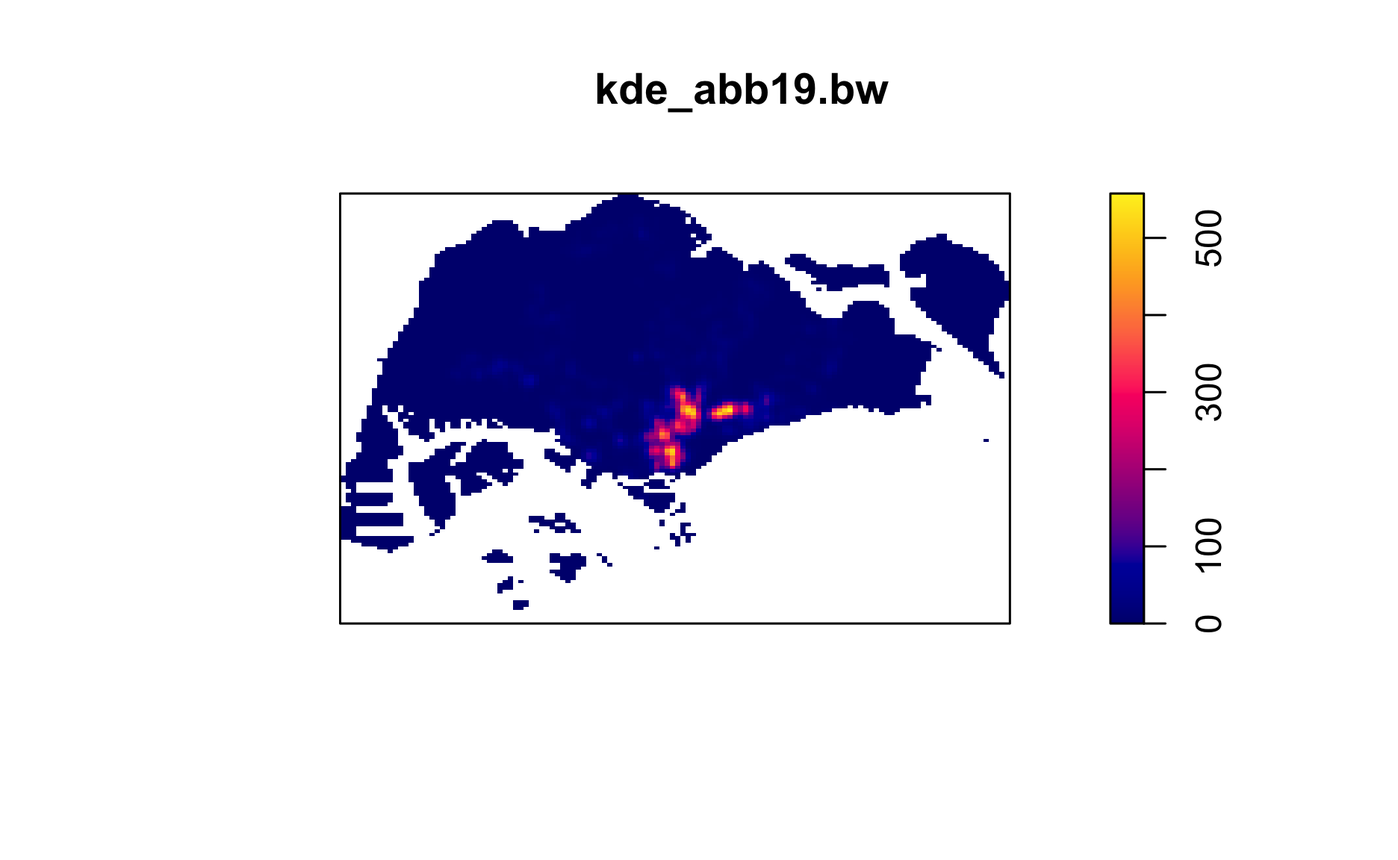
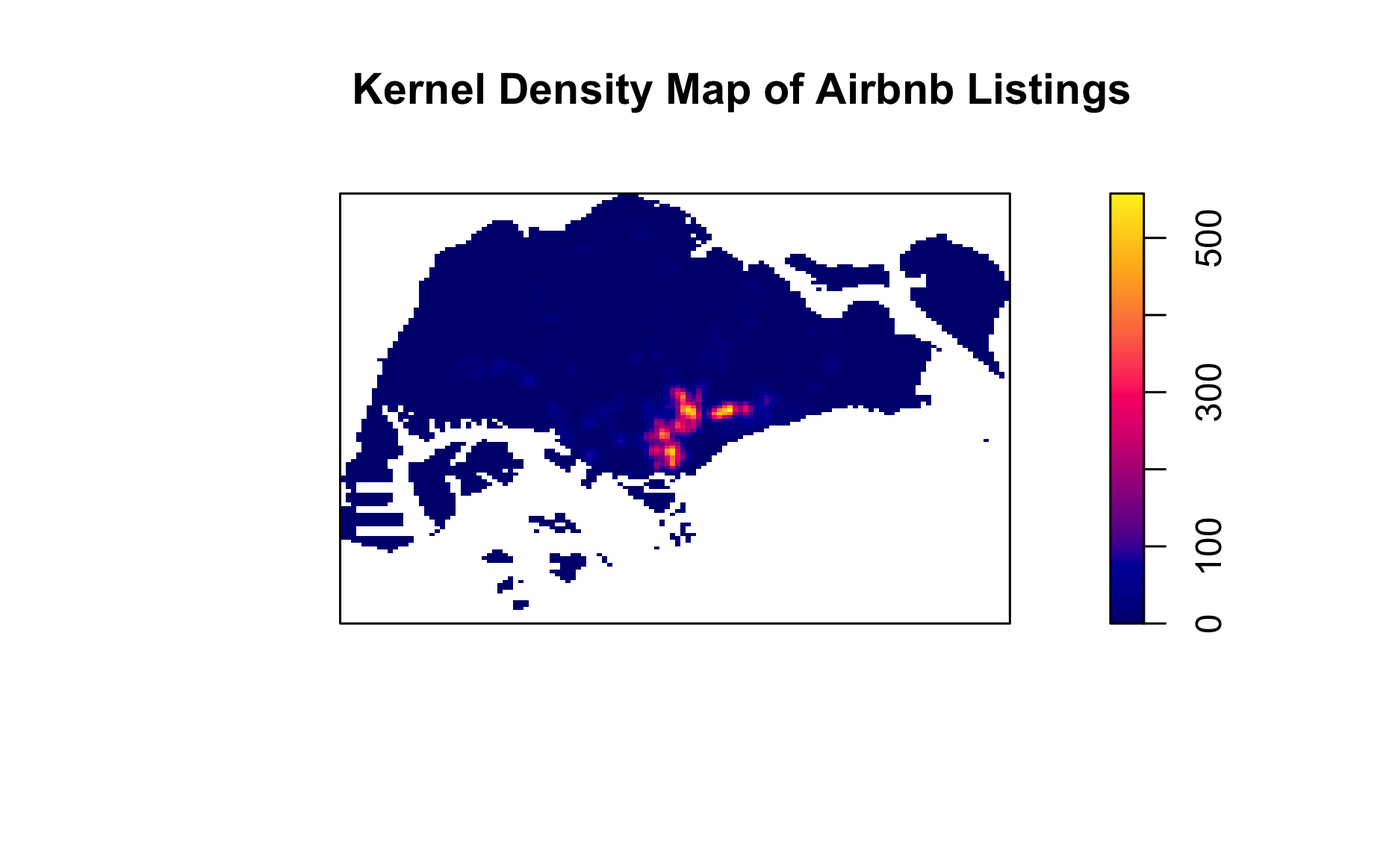
Initial commit

Changed region(s): [[0.2479, 0.0625, 0.8056, 0.125]]

diff --git a/_posts/2021-09-24-take-home-exercise-2/take-home-exercise-2.html b/_posts/2021-09-24-take-home-exercise-2/take-home-exercise-2.html
@@ -92,8 +92,8 @@ code span.wa { color: #5e5e5e; font-style: italic; } /* Warning */
 
 
   <!--  https://schema.org/Article -->
-  <meta property="article:published" itemprop="datePublished" content="2021-09-24"/>
-  <meta property="article:created" itemprop="dateCreated" content="2021-09-24"/>
+  <meta property="article:published" itemprop="datePublished" content="2021-10-01"/>
+  <meta property="article:created" itemprop="dateCreated" content="2021-10-01"/>
   <meta name="article:author" content="Xu Pengtai"/>
 
   <!--  https://developers.facebook.com/docs/sharing/webmasters#markup -->
@@ -111,12 +111,12 @@ code span.wa { color: #5e5e5e; font-style: italic; } /* Warning */
   <!--radix_placeholder_rmarkdown_metadata-->
 
   <script type="text/json" id="radix-rmarkdown-metadata">
-  {"type":"list","attributes":{"names":{"type":"character","attributes":{},"value":["title","description","author","date","output"]}},"value":[{"type":"character","attributes":{},"value":["take-home-exercise-2"]},{"type":"character","attributes":{},"value":["Analysing airbnb listings in Singapore and the impact of covid-19 on them.\n"]},{"type":"list","attributes":{},"value":[{"type":"list","attributes":{"names":{"type":"character","attributes":{},"value":["name","url"]}},"value":[{"type":"character","attributes":{},"value":["Xu Pengtai"]},{"type":"character","attributes":{},"value":["https://www.linkedin.com/in/xupengtai/"]}]}]},{"type":"character","attributes":{},"value":["09-24-2021"]},{"type":"list","attributes":{"names":{"type":"character","attributes":{},"value":["distill::distill_article"]}},"value":[{"type":"list","attributes":{"names":{"type":"character","attributes":{},"value":["self_contained"]}},"value":[{"type":"logical","attributes":{},"value":[false]}]}]}]}
+  {"type":"list","attributes":{"names":{"type":"character","attributes":{},"value":["title","description","author","date","output"]}},"value":[{"type":"character","attributes":{},"value":["take-home-exercise-2"]},{"type":"character","attributes":{},"value":["Analysing airbnb listings in Singapore and the impact of covid-19 on them.\n"]},{"type":"list","attributes":{},"value":[{"type":"list","attributes":{"names":{"type":"character","attributes":{},"value":["name","url"]}},"value":[{"type":"character","attributes":{},"value":["Xu Pengtai"]},{"type":"character","attributes":{},"value":["https://www.linkedin.com/in/xupengtai/"]}]}]},{"type":"character","attributes":{},"value":["10-01-2021"]},{"type":"list","attributes":{"names":{"type":"character","attributes":{},"value":["distill::distill_article"]}},"value":[{"type":"list","attributes":{"names":{"type":"character","attributes":{},"value":["self_contained"]}},"value":[{"type":"logical","attributes":{},"value":[false]}]}]}]}
   </script>
   <!--/radix_placeholder_rmarkdown_metadata-->
   
   <script type="text/json" id="radix-resource-manifest">
-  {"type":"character","attributes":{},"value":["data/airbnb/listings_2019.csv","data/airbnb/listings_2021.csv","data/OneMap_Data/hotels.csv","data/OneMap_Data/mrt/MRTLRTStnPtt.CPG","data/OneMap_Data/mrt/MRTLRTStnPtt.dbf","data/OneMap_Data/mrt/MRTLRTStnPtt.prj","data/OneMap_Data/mrt/MRTLRTStnPtt.sbn","data/OneMap_Data/mrt/MRTLRTStnPtt.sbx","data/OneMap_Data/mrt/MRTLRTStnPtt.shp","data/OneMap_Data/mrt/MRTLRTStnPtt.shp.xml","data/OneMap_Data/mrt/MRTLRTStnPtt.shx","data/OneMap_Data/tourism.csv","data/subzone_sg/MP14_SUBZONE_WEB_PL.dbf","data/subzone_sg/MP14_SUBZONE_WEB_PL.prj","data/subzone_sg/MP14_SUBZONE_WEB_PL.sbn","data/subzone_sg/MP14_SUBZONE_WEB_PL.sbx","data/subzone_sg/MP14_SUBZONE_WEB_PL.shp","data/subzone_sg/MP14_SUBZONE_WEB_PL.shp.xml","data/subzone_sg/MP14_SUBZONE_WEB_PL.shx","data/subzone_sg/Punggol_St.cpg","data/subzone_sg/Punggol_St.dbf","data/subzone_sg/Punggol_St.prj","data/subzone_sg/Punggol_St.shp","data/subzone_sg/Punggol_St.shx","take-home-exercise-2_files/figure-html5/unnamed-chunk-10-1.png","take-home-exercise-2_files/figure-html5/unnamed-chunk-10-2.png","take-home-exercise-2_files/figure-html5/unnamed-chunk-2-1.png","take-home-exercise-2_files/figure-html5/unnamed-chunk-3-1.png","take-home-exercise-2_files/figure-html5/unnamed-chunk-5-1.png","take-home-exercise-2_files/figure-html5/unnamed-chunk-8-1.png"]}
+  {"type":"character","attributes":{},"value":["data/airbnb/listings_2019.csv","data/airbnb/listings_2021.csv","data/OneMap_Data/hotels.csv","data/OneMap_Data/mrt/MRTLRTStnPtt.CPG","data/OneMap_Data/mrt/MRTLRTStnPtt.dbf","data/OneMap_Data/mrt/MRTLRTStnPtt.prj","data/OneMap_Data/mrt/MRTLRTStnPtt.sbn","data/OneMap_Data/mrt/MRTLRTStnPtt.sbx","data/OneMap_Data/mrt/MRTLRTStnPtt.shp","data/OneMap_Data/mrt/MRTLRTStnPtt.shp.xml","data/OneMap_Data/mrt/MRTLRTStnPtt.shx","data/OneMap_Data/tourism.csv","data/subzone_sg/MP14_SUBZONE_WEB_PL.dbf","data/subzone_sg/MP14_SUBZONE_WEB_PL.prj","data/subzone_sg/MP14_SUBZONE_WEB_PL.sbn","data/subzone_sg/MP14_SUBZONE_WEB_PL.sbx","data/subzone_sg/MP14_SUBZONE_WEB_PL.shp","data/subzone_sg/MP14_SUBZONE_WEB_PL.shp.xml","data/subzone_sg/MP14_SUBZONE_WEB_PL.shx","data/subzone_sg/Punggol_St.cpg","data/subzone_sg/Punggol_St.dbf","data/subzone_sg/Punggol_St.prj","data/subzone_sg/Punggol_St.shp","data/subzone_sg/Punggol_St.shx","take-home-exercise-2_files/anchor-4.2.2/anchor.min.js","take-home-exercise-2_files/bowser-1.9.3/bowser.min.js","take-home-exercise-2_files/distill-2.2.21/template.v2.js","take-home-exercise-2_files/figure-html5/unnamed-chunk-10-1.png","take-home-exercise-2_files/figure-html5/unnamed-chunk-10-2.png","take-home-exercise-2_files/figure-html5/unnamed-chunk-2-1.png","take-home-exercise-2_files/figure-html5/unnamed-chunk-3-1.png","take-home-exercise-2_files/figure-html5/unnamed-chunk-5-1.png","take-home-exercise-2_files/figure-html5/unnamed-chunk-8-1.png","take-home-exercise-2_files/header-attrs-2.10/header-attrs.js","take-home-exercise-2_files/jquery-1.11.3/jquery.min.js","take-home-exercise-2_files/popper-2.6.0/popper.min.js","take-home-exercise-2_files/tippy-6.2.7/tippy-bundle.umd.min.js","take-home-exercise-2_files/tippy-6.2.7/tippy-light-border.css","take-home-exercise-2_files/tippy-6.2.7/tippy.css","take-home-exercise-2_files/tippy-6.2.7/tippy.umd.min.js","take-home-exercise-2_files/webcomponents-2.0.0/webcomponents.js"]}
   </script>
   <!--radix_placeholder_navigation_in_header-->
   <!--/radix_placeholder_navigation_in_header-->
@@ -1455,7 +1455,7 @@ code span.wa { color: #5e5e5e; font-style: italic; } /* Warning */
 <!--radix_placeholder_front_matter-->
 
 <script id="distill-front-matter" type="text/json">
-{"title":"take-home-exercise-2","description":"Analysing airbnb listings in Singapore and the impact of covid-19 on them.","authors":[{"author":"Xu Pengtai","authorURL":"https://www.linkedin.com/in/xupengtai/","affiliation":"&nbsp;","affiliationURL":"#","orcidID":""}],"publishedDate":"2021-09-24T00:00:00.000+00:00","citationText":"Pengtai, 2021"}
+{"title":"take-home-exercise-2","description":"Analysing airbnb listings in Singapore and the impact of covid-19 on them.","authors":[{"author":"Xu Pengtai","authorURL":"https://www.linkedin.com/in/xupengtai/","affiliation":"&nbsp;","affiliationURL":"#","orcidID":""}],"publishedDate":"2021-10-01T00:00:00.000+00:00","citationText":"Pengtai, 2021"}
 </script>
 
 <!--/radix_placeholder_front_matter-->
@@ -1474,7 +1474,7 @@ code span.wa { color: #5e5e5e; font-style: italic; } /* Warning */
 <div class="d-byline">
   Xu Pengtai <a href="https://www.linkedin.com/in/xupengtai/" class="uri">https://www.linkedin.com/in/xupengtai/</a> 
   
-<br/>09-24-2021
+<br/>10-01-2021
 </div>
 
 <div class="d-article">
@@ -1519,16 +1519,14 @@ Projected CRS: SVY21</code></pre>
 <pre class="sourceCode r"><code class="sourceCode r"><span class='va'>sg</span> <span class='op'>&lt;-</span> <span class='fu'>as_Spatial</span><span class='op'>(</span><span class='va'>sg_sf</span><span class='op'>)</span>
 <span class='va'>sg_sp</span> <span class='op'>&lt;-</span> <span class='fu'>as</span><span class='op'>(</span><span class='va'>sg</span>, <span class='st'>"SpatialPolygons"</span><span class='op'>)</span>
 <span class='va'>sg_owin</span> <span class='op'>&lt;-</span> <span class='fu'>as</span><span class='op'>(</span><span class='va'>sg_sp</span>, <span class='st'>"owin"</span><span class='op'>)</span>
-<span class='fu'><a href='https://rdrr.io/r/graphics/plot.default.html'>plot</a></span><span class='op'>(</span><span class='va'>sg_owin</span><span class='op'>)</span>
+<span class='fu'><a href='https://rdrr.io/r/graphics/plot.default.html'>plot</a></span><span class='op'>(</span><span class='va'>sg_owin</span>, main<span class='op'>=</span><span class='st'>"Outline of SG"</span><span class='op'>)</span>
 </code></pre>
 </div>
 <p><img src="take-home-exercise-2_files/figure-html5/unnamed-chunk-2-1.png" width="624" /></p>
 </div>
 <h2 id="section-a-airbnb-distribution-in-2019">Section A: Airbnb Distribution in 2019</h2>
 <p>In this section, you are tasked to investigate if the distribution of Airbnb listings are affected by location factors such as near to existing hotels, MRT services and tourist attractions. For the purpose of this analysis, Airbnb listings as at June 2019 should be used.</p>
-<ol type="1">
-<li>Exploratory Spatial Data Analysis</li>
-</ol>
+<h3 id="exploratory-spatial-data-analysis">1. Exploratory Spatial Data Analysis</h3>
 <p>Derive kernel density maps of Airbnb listings, hotels, MRT services, and tourist attractions.</p>
 <div class="layout-chunk" data-layout="l-body">
 <div class="sourceCode">
@@ -1551,7 +1549,7 @@ Projected CRS: SVY21</code></pre>
                               sigma<span class='op'>=</span><span class='va'>bw.diggle</span>,
                               edge<span class='op'>=</span><span class='cn'>TRUE</span>,
                             kernel<span class='op'>=</span><span class='st'>"gaussian"</span><span class='op'>)</span> 
-<span class='fu'><a href='https://rdrr.io/r/graphics/plot.default.html'>plot</a></span><span class='op'>(</span><span class='va'>kde_abb19.bw</span><span class='op'>)</span>
+<span class='fu'><a href='https://rdrr.io/r/graphics/plot.default.html'>plot</a></span><span class='op'>(</span><span class='va'>kde_abb19.bw</span>, main<span class='op'>=</span><span class='st'>"Kernel Density Map of Airbnb Listings"</span><span class='op'>)</span>
 </code></pre>
 </div>
 <p><img src="take-home-exercise-2_files/figure-html5/unnamed-chunk-3-1.png" width="624" /></p>
@@ -1636,6 +1634,7 @@ Projected CRS: SVY21</code></pre>
 </div>
 <p><img src="take-home-exercise-2_files/figure-html5/unnamed-chunk-5-1.png" width="624" /></p>
 </div>
+<p>Airbnb listings in 2019 are mostly clustered at south of Singapore Kernel density map gives additional information on the clustering of the points compared to simple point analysis.</p>
 <div class="layout-chunk" data-layout="l-body">
 <div class="sourceCode">
 <pre class="sourceCode r"><code class="sourceCode r"><span class='co'># hotels</span>
@@ -1661,16 +1660,13 @@ Projected CRS: SVY21</code></pre>
 </code></pre>
 </div>
 </div>
-<p>Kernel density map gives additional information on the clustering of the points compared to simple point analysis.</p>
-<ol start="2" type="1">
-<li>Second-order Spatial Point Patterns Analysis</li>
-</ol>
+<h3 id="second-order-spatial-point-patterns-analysis">2. Second-order Spatial Point Patterns Analysis</h3>
 <p>With reference to the spatial point patterns observed in (1):</p>
 <p>Formulate the null hypothesis and alternative hypothesis and select the confidence level.</p>
 <p>Ho = The distribution of airbnb listings in June 2019 in Singapore are randomly distributed.</p>
 <p>H1= The distribution of airbnb listings in June 2019 in Singapore are not randomly distributed.</p>
 <p>The 95% confident interval will be used.</p>
-Perform the test by using appropriate Second order spatial point patterns analysis technique.
+<p>Perform the test by using appropriate Second order spatial point patterns analysis technique.</p>
 <div class="layout-chunk" data-layout="l-body">
 <div class="sourceCode">
 <pre class="sourceCode r"><code class="sourceCode r"><span class='fu'>clarkevans.test</span><span class='op'>(</span><span class='va'>abb19_ppp</span>,
@@ -1693,10 +1689,8 @@ alternative hypothesis: clustered (R &lt; 1)</code></pre>
 <p>With the p value = 0.01 , we reject the null hypothesis and conclude that the distribution of airbnb listings in June 2019 in Singapore are not randomly distributed. Factors involved could be distance to hotels/mrts/tourist attractions. In addition, we do see the overlap of dense areas in the kernel density map of airbnb listings and hotels/tourist attractions.</p>
 <h2 id="section-b-impact-of-covid-19">Section B: Impact of COVID-19</h2>
 <p>In this section, you are required to analyse the impact of COVID-19 on Airbnb business in Singapore by comparing Airbnb listings data on June 2019 and June 2021.</p>
-<ol start="3" type="1">
-<li>Exploratory Spatial Data Analysis</li>
-</ol>
-Derive kernel density maps of all Airbnb listings and Airbnb by room type as at June 2019 and June 2021,
+<h3 id="exploratory-spatial-data-analysis-1">3. Exploratory Spatial Data Analysis</h3>
+<p>Derive kernel density maps of all Airbnb listings and Airbnb by room type as at June 2019 and June 2021,</p>
 <div class="layout-chunk" data-layout="l-body">
 <div class="sourceCode">
 <pre class="sourceCode r"><code class="sourceCode r"><span class='co'>## June 2019</span>
@@ -1870,6 +1864,8 @@ enclosing rectangle: [2.6675, 56.396] x [15.749, 50.256] km</code></pre>
 </div>
 <p><img src="take-home-exercise-2_files/figure-html5/unnamed-chunk-10-2.png" width="624" /></p>
 </div>
+<p>Describe the spatial patterns reveal by the kernel density maps.</p>
+<p>The main clusters of Airbnb private rooms remained in the south of Singapore after covid.</p>
 <div class="layout-chunk" data-layout="l-body">
 <div class="sourceCode">
 <pre class="sourceCode r"><code class="sourceCode r"><span class='co'># Entire home/apt</span>
@@ -1917,10 +1913,7 @@ enclosing rectangle: [2.6675, 56.396] x [15.749, 50.256] km</code></pre>
 </code></pre>
 </div>
 </div>
-<p>Describe the spatial patterns reveal by the kernel density maps.</p>
-<ol start="4" type="1">
-<li>Second-order Spatial Point Patterns Analysis</li>
-</ol>
+<h3 id="second-order-spatial-point-patterns-analysis-1">4. Second-order Spatial Point Patterns Analysis</h3>
 <p>With reference to the spatial point patterns observed in (3):</p>
 <p>Formulate the null hypothesis and alternative hypothesis and select the confidence level. We can form null hypothesis on both 2019 and 2021 airbnb listings by room type. For example, we can form the following two set of hypothesis to have an understanding on the effect of covid-19 on the distribution of the listing of private rooms available on airbnb.</p>
 <p>Set 1: Ho = The distribution of airbnb private room listings in June 2019 in Singapore are randomly distributed. H1= The distribution of airbnb private listings in June 2019 in Singapore are not randomly distributed. The 95% confident interval will be used.</p>
@@ -1962,6 +1955,7 @@ R = 0.32079, p-value = 0.01
 alternative hypothesis: clustered (R &lt; 1)</code></pre>
 </div>
 <p>With reference to the analysis results, draw statistical conclusions. Set 1: R = 0.38104, p-value = 0.01 Set 2: R = 0.32079, p-value = 0.01 While both sets have the same p-value of 0.01, set 2 has a smaller Nearest Neighbour Ratio. This smaller value means that the private room listings on airbnb in 2021 have got more clustered compared to that before covid-19 in 2019. We can compare the other room types in a similar manner.</p>
+<hr />
 <p>Distill is a publication format for scientific and technical writing, native to the web.</p>
 <p>Learn more about using Distill at <a href="https://rstudio.github.io/distill" class="uri">https://rstudio.github.io/distill</a>.</p>
 <div class="sourceCode" id="cb9"><pre class="sourceCode r distill-force-highlighting-css"><code class="sourceCode r"></code></pre></div>

diff --git a/_site/posts/2021-09-24-take-home-exercise-2/index.html b/_site/posts/2021-09-24-take-home-exercise-2/index.html
@@ -92,8 +92,8 @@ code span.wa { color: #5e5e5e; font-style: italic; } /* Warning */
 
 
 <!--  https://schema.org/Article -->
-<meta property="article:published" itemprop="datePublished" content="2021-09-24"/>
-<meta property="article:created" itemprop="dateCreated" content="2021-09-24"/>
+<meta property="article:published" itemprop="datePublished" content="2021-10-01"/>
+<meta property="article:created" itemprop="dateCreated" content="2021-10-01"/>
 <meta name="article:author" content="Xu Pengtai"/>
 
 <!--  https://developers.facebook.com/docs/sharing/webmasters#markup -->
@@ -112,12 +112,12 @@ code span.wa { color: #5e5e5e; font-style: italic; } /* Warning */
   <!--radix_placeholder_rmarkdown_metadata-->
 
 <script type="text/json" id="radix-rmarkdown-metadata">
-{"type":"list","attributes":{"names":{"type":"character","attributes":{},"value":["title","description","author","date","output"]}},"value":[{"type":"character","attributes":{},"value":["take-home-exercise-2"]},{"type":"character","attributes":{},"value":["Analysing airbnb listings in Singapore and the impact of covid-19 on them."]},{"type":"list","attributes":{},"value":[{"type":"list","attributes":{"names":{"type":"character","attributes":{},"value":["name","url"]}},"value":[{"type":"character","attributes":{},"value":["Xu Pengtai"]},{"type":"character","attributes":{},"value":["https://www.linkedin.com/in/xupengtai/"]}]}]},{"type":"character","attributes":{},"value":["09-24-2021"]},{"type":"list","attributes":{"names":{"type":"character","attributes":{},"value":["distill::distill_article"]}},"value":[{"type":"list","attributes":{"names":{"type":"character","attributes":{},"value":["self_contained"]}},"value":[{"type":"logical","attributes":{},"value":[false]}]}]}]}
+{"type":"list","attributes":{"names":{"type":"character","attributes":{},"value":["title","description","author","date","output"]}},"value":[{"type":"character","attributes":{},"value":["take-home-exercise-2"]},{"type":"character","attributes":{},"value":["Analysing airbnb listings in Singapore and the impact of covid-19 on them."]},{"type":"list","attributes":{},"value":[{"type":"list","attributes":{"names":{"type":"character","attributes":{},"value":["name","url"]}},"value":[{"type":"character","attributes":{},"value":["Xu Pengtai"]},{"type":"character","attributes":{},"value":["https://www.linkedin.com/in/xupengtai/"]}]}]},{"type":"character","attributes":{},"value":["10-01-2021"]},{"type":"list","attributes":{"names":{"type":"character","attributes":{},"value":["distill::distill_article"]}},"value":[{"type":"list","attributes":{"names":{"type":"character","attributes":{},"value":["self_contained"]}},"value":[{"type":"logical","attributes":{},"value":[false]}]}]}]}
 </script>
 <!--/radix_placeholder_rmarkdown_metadata-->
   
   <script type="text/json" id="radix-resource-manifest">
-  {"type":"character","attributes":{},"value":["data/airbnb/listings_2019.csv","data/airbnb/listings_2021.csv","data/OneMap_Data/hotels.csv","data/OneMap_Data/mrt/MRTLRTStnPtt.CPG","data/OneMap_Data/mrt/MRTLRTStnPtt.dbf","data/OneMap_Data/mrt/MRTLRTStnPtt.prj","data/OneMap_Data/mrt/MRTLRTStnPtt.sbn","data/OneMap_Data/mrt/MRTLRTStnPtt.sbx","data/OneMap_Data/mrt/MRTLRTStnPtt.shp","data/OneMap_Data/mrt/MRTLRTStnPtt.shp.xml","data/OneMap_Data/mrt/MRTLRTStnPtt.shx","data/OneMap_Data/tourism.csv","data/subzone_sg/MP14_SUBZONE_WEB_PL.dbf","data/subzone_sg/MP14_SUBZONE_WEB_PL.prj","data/subzone_sg/MP14_SUBZONE_WEB_PL.sbn","data/subzone_sg/MP14_SUBZONE_WEB_PL.sbx","data/subzone_sg/MP14_SUBZONE_WEB_PL.shp","data/subzone_sg/MP14_SUBZONE_WEB_PL.shp.xml","data/subzone_sg/MP14_SUBZONE_WEB_PL.shx","data/subzone_sg/Punggol_St.cpg","data/subzone_sg/Punggol_St.dbf","data/subzone_sg/Punggol_St.prj","data/subzone_sg/Punggol_St.shp","data/subzone_sg/Punggol_St.shx","take-home-exercise-2_files/figure-html5/unnamed-chunk-10-1.png","take-home-exercise-2_files/figure-html5/unnamed-chunk-10-2.png","take-home-exercise-2_files/figure-html5/unnamed-chunk-2-1.png","take-home-exercise-2_files/figure-html5/unnamed-chunk-3-1.png","take-home-exercise-2_files/figure-html5/unnamed-chunk-5-1.png","take-home-exercise-2_files/figure-html5/unnamed-chunk-8-1.png"]}
+  {"type":"character","attributes":{},"value":["data/airbnb/listings_2019.csv","data/airbnb/listings_2021.csv","data/OneMap_Data/hotels.csv","data/OneMap_Data/mrt/MRTLRTStnPtt.CPG","data/OneMap_Data/mrt/MRTLRTStnPtt.dbf","data/OneMap_Data/mrt/MRTLRTStnPtt.prj","data/OneMap_Data/mrt/MRTLRTStnPtt.sbn","data/OneMap_Data/mrt/MRTLRTStnPtt.sbx","data/OneMap_Data/mrt/MRTLRTStnPtt.shp","data/OneMap_Data/mrt/MRTLRTStnPtt.shp.xml","data/OneMap_Data/mrt/MRTLRTStnPtt.shx","data/OneMap_Data/tourism.csv","data/subzone_sg/MP14_SUBZONE_WEB_PL.dbf","data/subzone_sg/MP14_SUBZONE_WEB_PL.prj","data/subzone_sg/MP14_SUBZONE_WEB_PL.sbn","data/subzone_sg/MP14_SUBZONE_WEB_PL.sbx","data/subzone_sg/MP14_SUBZONE_WEB_PL.shp","data/subzone_sg/MP14_SUBZONE_WEB_PL.shp.xml","data/subzone_sg/MP14_SUBZONE_WEB_PL.shx","data/subzone_sg/Punggol_St.cpg","data/subzone_sg/Punggol_St.dbf","data/subzone_sg/Punggol_St.prj","data/subzone_sg/Punggol_St.shp","data/subzone_sg/Punggol_St.shx","take-home-exercise-2_files/anchor-4.2.2/anchor.min.js","take-home-exercise-2_files/bowser-1.9.3/bowser.min.js","take-home-exercise-2_files/distill-2.2.21/template.v2.js","take-home-exercise-2_files/figure-html5/unnamed-chunk-10-1.png","take-home-exercise-2_files/figure-html5/unnamed-chunk-10-2.png","take-home-exercise-2_files/figure-html5/unnamed-chunk-2-1.png","take-home-exercise-2_files/figure-html5/unnamed-chunk-3-1.png","take-home-exercise-2_files/figure-html5/unnamed-chunk-5-1.png","take-home-exercise-2_files/figure-html5/unnamed-chunk-8-1.png","take-home-exercise-2_files/header-attrs-2.10/header-attrs.js","take-home-exercise-2_files/jquery-1.11.3/jquery.min.js","take-home-exercise-2_files/popper-2.6.0/popper.min.js","take-home-exercise-2_files/tippy-6.2.7/tippy-bundle.umd.min.js","take-home-exercise-2_files/tippy-6.2.7/tippy-light-border.css","take-home-exercise-2_files/tippy-6.2.7/tippy.css","take-home-exercise-2_files/tippy-6.2.7/tippy.umd.min.js","take-home-exercise-2_files/webcomponents-2.0.0/webcomponents.js"]}
   </script>
   <!--radix_placeholder_navigation_in_header-->
 <meta name="distill:offset" content="../.."/>
@@ -2062,7 +2062,7 @@ document.addEventListener('DOMContentLoaded', function() {
 <!--radix_placeholder_front_matter-->
 
 <script id="distill-front-matter" type="text/json">
-{"title":"take-home-exercise-2","description":"Analysing airbnb listings in Singapore and the impact of covid-19 on them.","authors":[{"author":"Xu Pengtai","authorURL":"https://www.linkedin.com/in/xupengtai/","affiliation":"&nbsp;","affiliationURL":"#","orcidID":""}],"publishedDate":"2021-09-24T00:00:00.000+00:00","citationText":"Pengtai, 2021"}
+{"title":"take-home-exercise-2","description":"Analysing airbnb listings in Singapore and the impact of covid-19 on them.","authors":[{"author":"Xu Pengtai","authorURL":"https://www.linkedin.com/in/xupengtai/","affiliation":"&nbsp;","affiliationURL":"#","orcidID":""}],"publishedDate":"2021-10-01T00:00:00.000+00:00","citationText":"Pengtai, 2021"}
 </script>
 
 <!--/radix_placeholder_front_matter-->
@@ -2104,7 +2104,7 @@ Take-home Exercise
 <div class="d-byline">
   Xu Pengtai <a href="https://www.linkedin.com/in/xupengtai/" class="uri">https://www.linkedin.com/in/xupengtai/</a> 
   
-<br/>09-24-2021
+<br/>10-01-2021
 </div>
 
 <div class="d-article">
@@ -2149,16 +2149,14 @@ Projected CRS: SVY21</code></pre>
 <pre class="sourceCode r"><code class="sourceCode r"><span class='va'>sg</span> <span class='op'>&lt;-</span> <span class='fu'>as_Spatial</span><span class='op'>(</span><span class='va'>sg_sf</span><span class='op'>)</span>
 <span class='va'>sg_sp</span> <span class='op'>&lt;-</span> <span class='fu'>as</span><span class='op'>(</span><span class='va'>sg</span>, <span class='st'>"SpatialPolygons"</span><span class='op'>)</span>
 <span class='va'>sg_owin</span> <span class='op'>&lt;-</span> <span class='fu'>as</span><span class='op'>(</span><span class='va'>sg_sp</span>, <span class='st'>"owin"</span><span class='op'>)</span>
-<span class='fu'><a href='https://rdrr.io/r/graphics/plot.default.html'>plot</a></span><span class='op'>(</span><span class='va'>sg_owin</span><span class='op'>)</span>
+<span class='fu'><a href='https://rdrr.io/r/graphics/plot.default.html'>plot</a></span><span class='op'>(</span><span class='va'>sg_owin</span>, main<span class='op'>=</span><span class='st'>"Outline of SG"</span><span class='op'>)</span>
 </code></pre>
 </div>
 <p><img src="take-home-exercise-2_files/figure-html5/unnamed-chunk-2-1.png" width="624" /></p>
 </div>
 <h2 id="section-a-airbnb-distribution-in-2019">Section A: Airbnb Distribution in 2019</h2>
 <p>In this section, you are tasked to investigate if the distribution of Airbnb listings are affected by location factors such as near to existing hotels, MRT services and tourist attractions. For the purpose of this analysis, Airbnb listings as at June 2019 should be used.</p>
-<ol type="1">
-<li>Exploratory Spatial Data Analysis</li>
-</ol>
+<h3 id="exploratory-spatial-data-analysis">1. Exploratory Spatial Data Analysis</h3>
 <p>Derive kernel density maps of Airbnb listings, hotels, MRT services, and tourist attractions.</p>
 <div class="layout-chunk" data-layout="l-body">
 <div class="sourceCode">
@@ -2181,7 +2179,7 @@ Projected CRS: SVY21</code></pre>
                               sigma<span class='op'>=</span><span class='va'>bw.diggle</span>,
                               edge<span class='op'>=</span><span class='cn'>TRUE</span>,
                             kernel<span class='op'>=</span><span class='st'>"gaussian"</span><span class='op'>)</span> 
-<span class='fu'><a href='https://rdrr.io/r/graphics/plot.default.html'>plot</a></span><span class='op'>(</span><span class='va'>kde_abb19.bw</span><span class='op'>)</span>
+<span class='fu'><a href='https://rdrr.io/r/graphics/plot.default.html'>plot</a></span><span class='op'>(</span><span class='va'>kde_abb19.bw</span>, main<span class='op'>=</span><span class='st'>"Kernel Density Map of Airbnb Listings"</span><span class='op'>)</span>
 </code></pre>
 </div>
 <p><img src="take-home-exercise-2_files/figure-html5/unnamed-chunk-3-1.png" width="624" /></p>
@@ -2266,6 +2264,7 @@ Projected CRS: SVY21</code></pre>
 </div>
 <p><img src="take-home-exercise-2_files/figure-html5/unnamed-chunk-5-1.png" width="624" /></p>
 </div>
+<p>Airbnb listings in 2019 are mostly clustered at south of Singapore Kernel density map gives additional information on the clustering of the points compared to simple point analysis.</p>
 <div class="layout-chunk" data-layout="l-body">
 <div class="sourceCode">
 <pre class="sourceCode r"><code class="sourceCode r"><span class='co'># hotels</span>
@@ -2291,16 +2290,13 @@ Projected CRS: SVY21</code></pre>
 </code></pre>
 </div>
 </div>
-<p>Kernel density map gives additional information on the clustering of the points compared to simple point analysis.</p>
-<ol start="2" type="1">
-<li>Second-order Spatial Point Patterns Analysis</li>
-</ol>
+<h3 id="second-order-spatial-point-patterns-analysis">2. Second-order Spatial Point Patterns Analysis</h3>
 <p>With reference to the spatial point patterns observed in (1):</p>
 <p>Formulate the null hypothesis and alternative hypothesis and select the confidence level.</p>
 <p>Ho = The distribution of airbnb listings in June 2019 in Singapore are randomly distributed.</p>
 <p>H1= The distribution of airbnb listings in June 2019 in Singapore are not randomly distributed.</p>
 <p>The 95% confident interval will be used.</p>
-Perform the test by using appropriate Second order spatial point patterns analysis technique.
+<p>Perform the test by using appropriate Second order spatial point patterns analysis technique.</p>
 <div class="layout-chunk" data-layout="l-body">
 <div class="sourceCode">
 <pre class="sourceCode r"><code class="sourceCode r"><span class='fu'>clarkevans.test</span><span class='op'>(</span><span class='va'>abb19_ppp</span>,
@@ -2323,10 +2319,8 @@ alternative hypothesis: clustered (R &lt; 1)</code></pre>
 <p>With the p value = 0.01 , we reject the null hypothesis and conclude that the distribution of airbnb listings in June 2019 in Singapore are not randomly distributed. Factors involved could be distance to hotels/mrts/tourist attractions. In addition, we do see the overlap of dense areas in the kernel density map of airbnb listings and hotels/tourist attractions.</p>
 <h2 id="section-b-impact-of-covid-19">Section B: Impact of COVID-19</h2>
 <p>In this section, you are required to analyse the impact of COVID-19 on Airbnb business in Singapore by comparing Airbnb listings data on June 2019 and June 2021.</p>
-<ol start="3" type="1">
-<li>Exploratory Spatial Data Analysis</li>
-</ol>
-Derive kernel density maps of all Airbnb listings and Airbnb by room type as at June 2019 and June 2021,
+<h3 id="exploratory-spatial-data-analysis-1">3. Exploratory Spatial Data Analysis</h3>
+<p>Derive kernel density maps of all Airbnb listings and Airbnb by room type as at June 2019 and June 2021,</p>
 <div class="layout-chunk" data-layout="l-body">
 <div class="sourceCode">
 <pre class="sourceCode r"><code class="sourceCode r"><span class='co'>## June 2019</span>
@@ -2500,6 +2494,8 @@ enclosing rectangle: [2.6675, 56.396] x [15.749, 50.256] km</code></pre>
 </div>
 <p><img src="take-home-exercise-2_files/figure-html5/unnamed-chunk-10-2.png" width="624" /></p>
 </div>
+<p>Describe the spatial patterns reveal by the kernel density maps.</p>
+<p>The main clusters of Airbnb private rooms remained in the south of Singapore after covid.</p>
 <div class="layout-chunk" data-layout="l-body">
 <div class="sourceCode">
 <pre class="sourceCode r"><code class="sourceCode r"><span class='co'># Entire home/apt</span>
@@ -2547,10 +2543,7 @@ enclosing rectangle: [2.6675, 56.396] x [15.749, 50.256] km</code></pre>
 </code></pre>
 </div>
 </div>
-<p>Describe the spatial patterns reveal by the kernel density maps.</p>
-<ol start="4" type="1">
-<li>Second-order Spatial Point Patterns Analysis</li>
-</ol>
+<h3 id="second-order-spatial-point-patterns-analysis-1">4. Second-order Spatial Point Patterns Analysis</h3>
 <p>With reference to the spatial point patterns observed in (3):</p>
 <p>Formulate the null hypothesis and alternative hypothesis and select the confidence level. We can form null hypothesis on both 2019 and 2021 airbnb listings by room type. For example, we can form the following two set of hypothesis to have an understanding on the effect of covid-19 on the distribution of the listing of private rooms available on airbnb.</p>
 <p>Set 1: Ho = The distribution of airbnb private room listings in June 2019 in Singapore are randomly distributed. H1= The distribution of airbnb private listings in June 2019 in Singapore are not randomly distributed. The 95% confident interval will be used.</p>
@@ -2592,6 +2585,7 @@ R = 0.32079, p-value = 0.01
 alternative hypothesis: clustered (R &lt; 1)</code></pre>
 </div>
 <p>With reference to the analysis results, draw statistical conclusions. Set 1: R = 0.38104, p-value = 0.01 Set 2: R = 0.32079, p-value = 0.01 While both sets have the same p-value of 0.01, set 2 has a smaller Nearest Neighbour Ratio. This smaller value means that the private room listings on airbnb in 2021 have got more clustered compared to that before covid-19 in 2019. We can compare the other room types in a similar manner.</p>
+<hr />
 <p>Distill is a publication format for scientific and technical writing, native to the web.</p>
 <p>Learn more about using Distill at <a href="https://rstudio.github.io/distill" class="uri">https://rstudio.github.io/distill</a>.</p>
 <div class="sourceCode" id="cb9"><pre class="sourceCode r distill-force-highlighting-css"><code class="sourceCode r"></code></pre></div>

diff --git a/_site/index.html b/_site/index.html
@@ -2206,6 +2206,23 @@ function init_posts_list() {
 <div class="posts-container posts-apply-limit l-page">
 <div class="posts-list">
 <h1 class="posts-list-caption" data-caption="IS415 blog">IS415 blog</h1>
+<a href="posts/2021-09-24-take-home-exercise-2/" class="post-preview">
+<script class="post-metadata" type="text/json">{"categories":[]}</script>
+<div class="metadata">
+<div class="publishedDate">Oct. 1, 2021</div>
+<div class="dt-authors">
+<div class="dt-author">Xu Pengtai</div>
+</div>
+</div>
+<div class="thumbnail">
+<img src="posts/2021-09-24-take-home-exercise-2/take-home-exercise-2_files/figure-html5/unnamed-chunk-2-1.png"/>
+</div>
+<div class="description">
+<h2>take-home-exercise-2</h2>
+<div class="dt-tags"></div>
+<p>Analysing airbnb listings in Singapore and the impact of covid-19 on them.</p>
+</div>
+</a>
 <a href="posts/2021-09-27-hands-on-exercise-7/" class="post-preview">
 <script class="post-metadata" type="text/json">{"categories":[]}</script>
 <div class="metadata">
@@ -2221,23 +2238,6 @@ function init_posts_list() {
 <h2>hands-on-exercise-7</h2>
 <div class="dt-tags"></div>
 <p>Measures of Spatial Autocorrelation.</p>
-</div>
-</a>
-<a href="posts/2021-09-24-take-home-exercise-2/" class="post-preview">
-<script class="post-metadata" type="text/json">{"categories":[]}</script>
-<div class="metadata">
-<div class="publishedDate">Sept. 24, 2021</div>
-<div class="dt-authors">
-<div class="dt-author">Xu Pengtai</div>
-</div>
-</div>
-<div class="thumbnail">
-<img src="posts/2021-09-24-take-home-exercise-2/take-home-exercise-2_files/figure-html5/unnamed-chunk-2-1.png"/>
-</div>
-<div class="description">
-<h2>take-home-exercise-2</h2>
-<div class="dt-tags"></div>
-<p>Analysing airbnb listings in Singapore and the impact of covid-19 on them.</p>
 </div>
 </a>
 <a href="posts/2021-09-20-hands-on-exercise-6/" class="post-preview">
